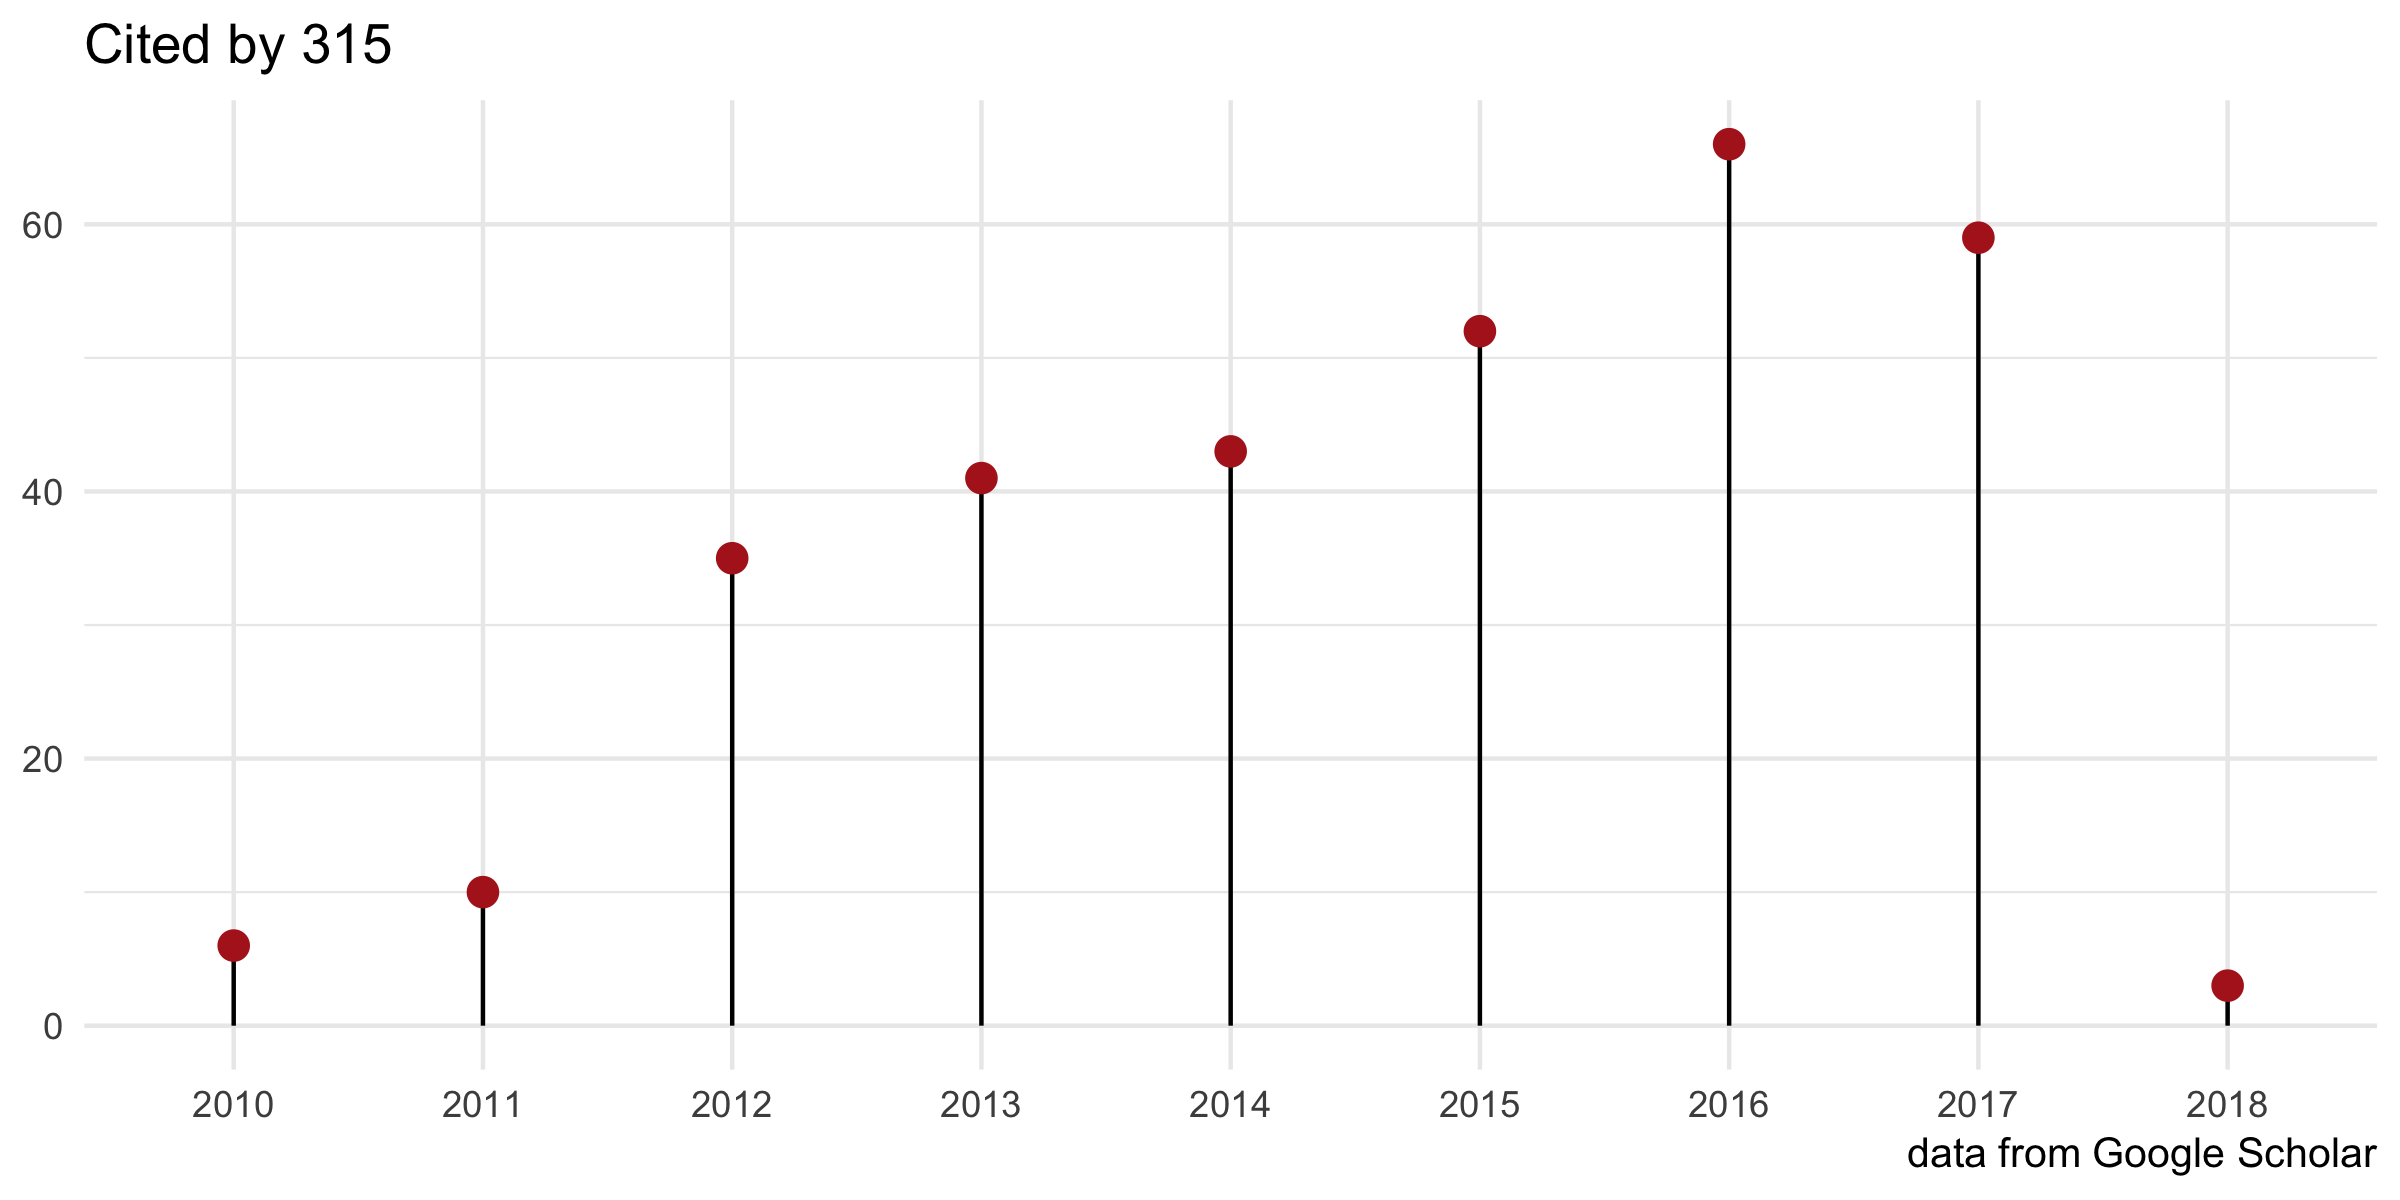
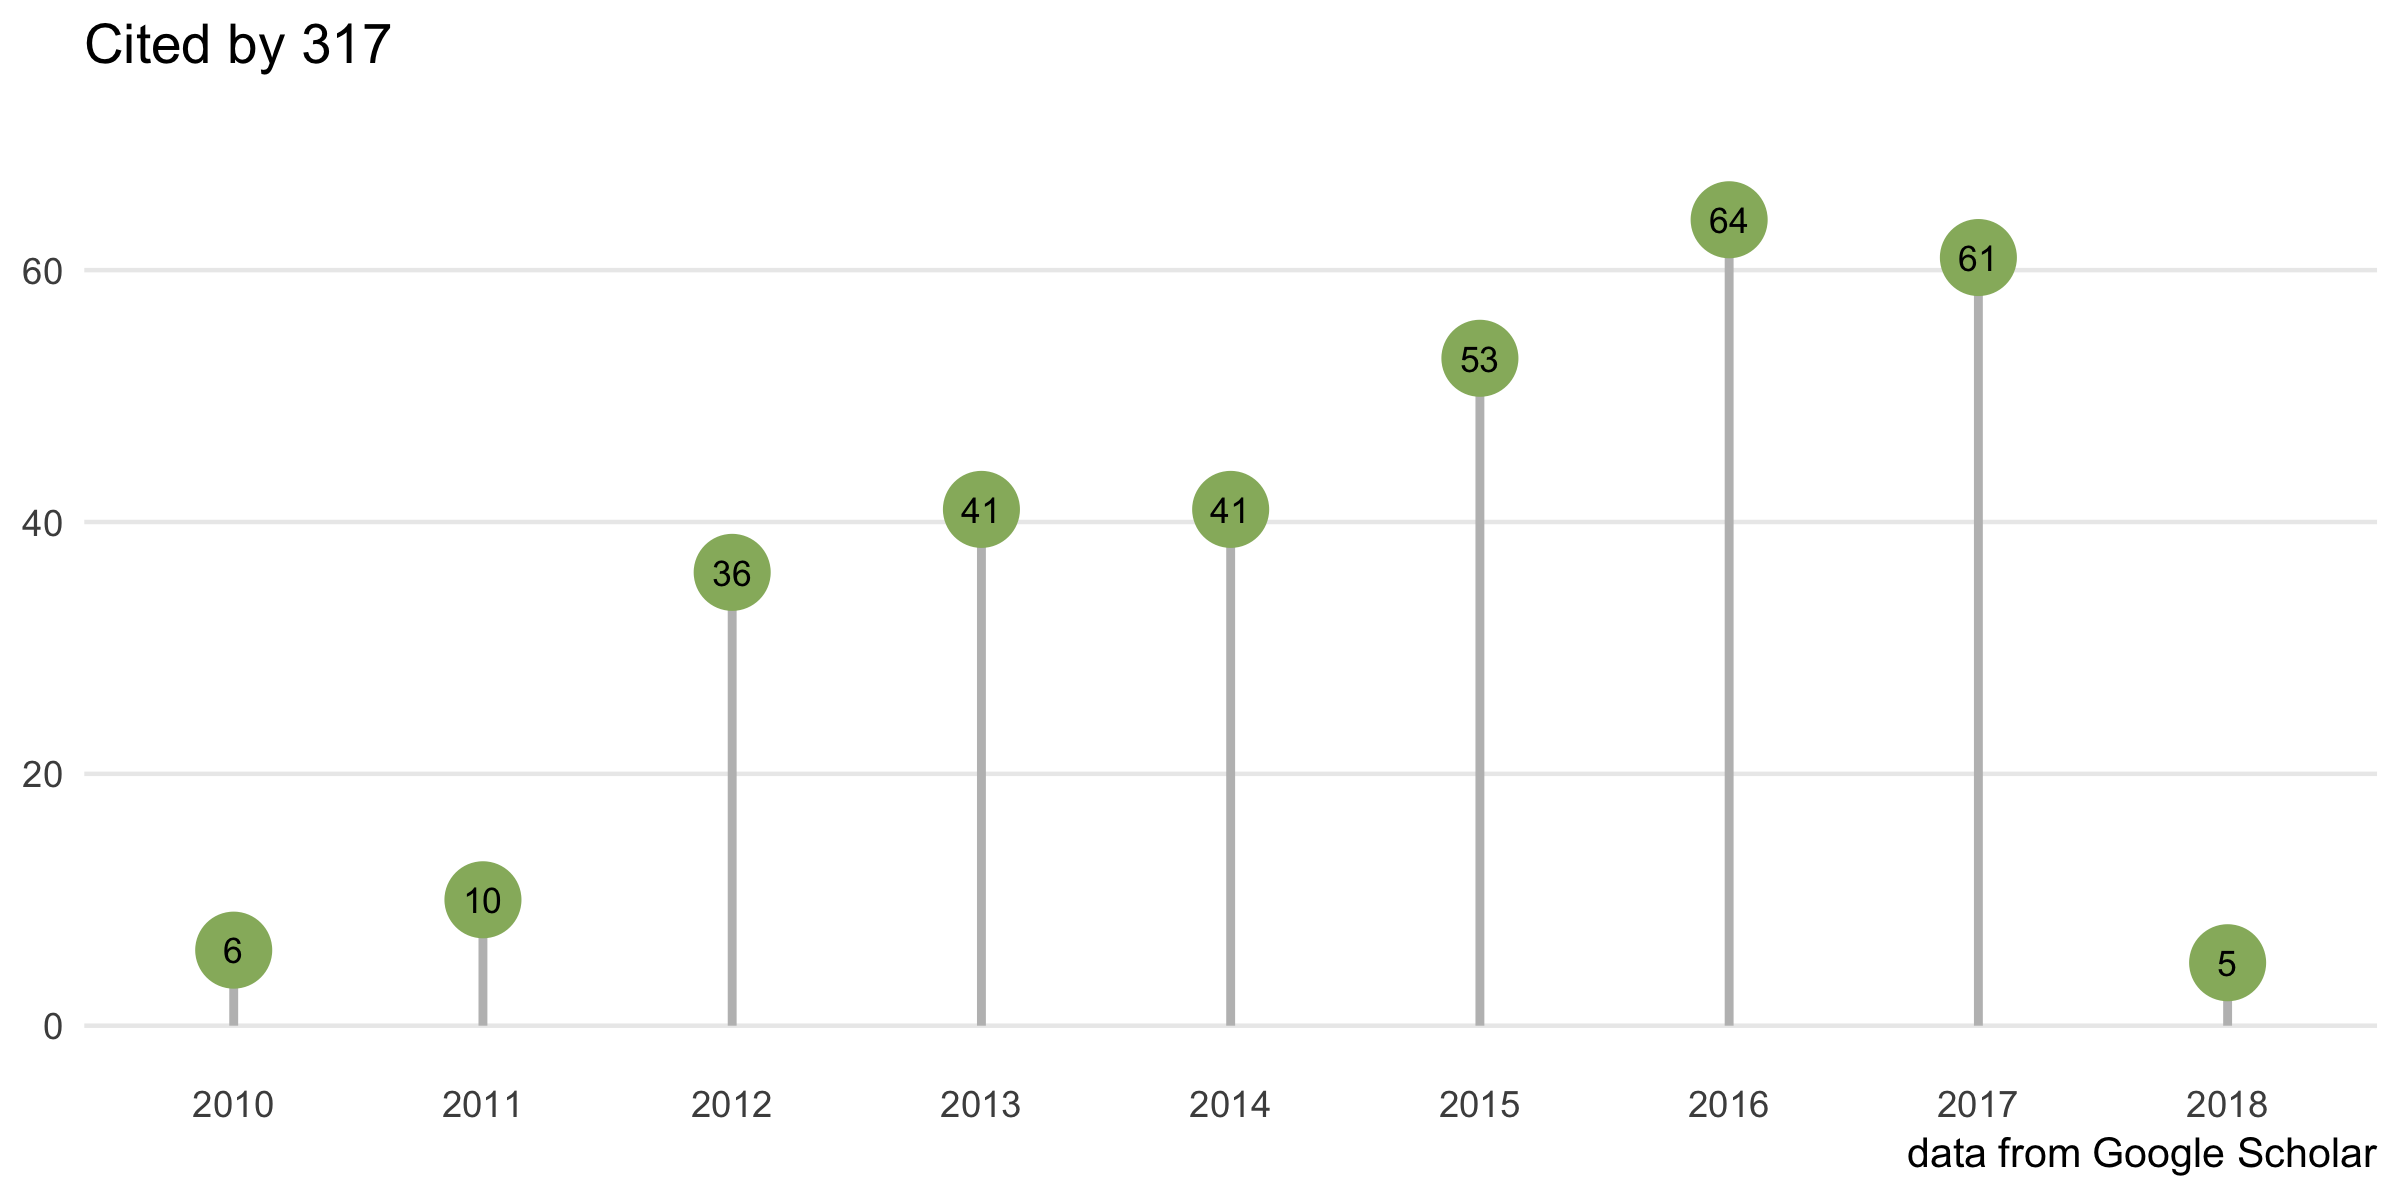
update docs

diff --git a/docs/index.html b/docs/index.html
@@ -287,7 +287,7 @@
 				<h1>GOSemSim: GO semantic similarity measurement </h1>
 
 				<p><link rel="stylesheet" href="https://guangchuangyu.github.io/css/font-awesome.min.css"> <link rel="stylesheet" href="https://guangchuangyu.github.io/css/academicons.min.css"></p>
-<p><a href="https://bioconductor.org/packages/GOSemSim"><img src="https://img.shields.io/badge/release%20version-2.4.0-blue.svg?style=flat" alt="releaseVersion" /></a> <a href="https://github.com/guangchuangyu/GOSemSim"><img src="https://img.shields.io/badge/devel%20version-2.5.0-blue.svg?style=flat" alt="develVersion" /></a> <a href="https://bioconductor.org/packages/stats/bioc/GOSemSim"><img src="https://img.shields.io/badge/downloads-65569/total-blue.svg?style=flat" alt="total" /></a> <a href="https://bioconductor.org/packages/stats/bioc/GOSemSim"><img src="https://img.shields.io/badge/downloads-2010/month-blue.svg?style=flat" alt="month" /></a></p>
+<p><a href="https://bioconductor.org/packages/GOSemSim"><img src="https://img.shields.io/badge/release%20version-2.4.0-blue.svg?style=flat" alt="releaseVersion" /></a> <a href="https://github.com/guangchuangyu/GOSemSim"><img src="https://img.shields.io/badge/devel%20version-2.5.0-blue.svg?style=flat" alt="develVersion" /></a> <a href="https://bioconductor.org/packages/stats/bioc/GOSemSim"><img src="https://img.shields.io/badge/downloads-66910/total-blue.svg?style=flat" alt="total" /></a> <a href="https://bioconductor.org/packages/stats/bioc/GOSemSim"><img src="https://img.shields.io/badge/downloads-2010/month-blue.svg?style=flat" alt="month" /></a></p>
 <p>The semantic comparisons of Gene Ontology (GO) annotations provide quantitative ways to compute similarities between genes and gene groups, and have became important basis for many bioinformatics analysis approaches. <code>GOSemSim</code> is an R package for semantic similarity computation among GO terms, sets of GO terms, gene products and gene clusters. <code>GOSemSim</code> implemented five methods proposed by <em>Resnik</em>, <em>Schlicker</em>, <em>Jiang</em>, <em>Lin</em> and <em>Wang</em> respectively.</p>
 <p><code>GOSemSim</code> is released within the <a href="https://bioconductor.org/packages/GOSemSim">Bioconductor</a> project and the source code is hosted on <a href="https://github.com/GuangchuangYu/GOSemSim"><i class="fa fa-github fa-lg"></i> GitHub</a>.</p>
 <div id="author" class="section level2">
@@ -298,7 +298,7 @@
 <div id="citation" class="section level2">
 <h2><i class="fa fa-book"></i> Citation</h2>
 <p>Please cite the following article when using <code>GOSemSim</code>:</p>
-<p><a href="http://dx.doi.org/10.1093/bioinformatics/btq064"><img src="https://img.shields.io/badge/doi-10.1093/bioinformatics/btq064-blue.svg?style=flat" alt="doi" /></a> <a href="https://www.altmetric.com/details/100979"><img src="https://img.shields.io/badge/Altmetric-18-blue.svg?style=flat" alt="Altmetric" /></a> <a href="https://scholar.google.com.hk/scholar?oi=bibs&amp;hl=en&amp;cites=9484177541993722322"><img src="https://img.shields.io/badge/cited%20by-315-blue.svg?style=flat" alt="citation" /></a></p>
+<p><a href="http://dx.doi.org/10.1093/bioinformatics/btq064"><img src="https://img.shields.io/badge/doi-10.1093/bioinformatics/btq064-blue.svg?style=flat" alt="doi" /></a> <a href="https://www.altmetric.com/details/100979"><img src="https://img.shields.io/badge/Altmetric-18-blue.svg?style=flat" alt="Altmetric" /></a> <a href="https://scholar.google.com.hk/scholar?oi=bibs&amp;hl=en&amp;cites=9484177541993722322"><img src="https://img.shields.io/badge/cited%20by-317-blue.svg?style=flat" alt="citation" /></a></p>
 <p><strong>Yu G</strong><sup>†</sup>, Li F<sup>†</sup>, Qin Y, Bo X<sup>*</sup>, Wu Y and Wang S<sup>*</sup>. GOSemSim: an R package for measuring semantic similarity among GO terms and gene products. <strong><em>Bioinformatics</em></strong>. 2010, 26(7):976-978.</p>
 </div>
 <div id="featured-articles" class="section level2">

diff --git a/site_src/content/index.html b/site_src/content/index.html
@@ -8,7 +8,7 @@ weight: 1
 
 
 <p><link rel="stylesheet" href="https://guangchuangyu.github.io/css/font-awesome.min.css"> <link rel="stylesheet" href="https://guangchuangyu.github.io/css/academicons.min.css"></p>
-<p><a href="https://bioconductor.org/packages/GOSemSim"><img src="https://img.shields.io/badge/release%20version-2.4.0-blue.svg?style=flat" alt="releaseVersion" /></a> <a href="https://github.com/guangchuangyu/GOSemSim"><img src="https://img.shields.io/badge/devel%20version-2.5.0-blue.svg?style=flat" alt="develVersion" /></a> <a href="https://bioconductor.org/packages/stats/bioc/GOSemSim"><img src="https://img.shields.io/badge/downloads-65569/total-blue.svg?style=flat" alt="total" /></a> <a href="https://bioconductor.org/packages/stats/bioc/GOSemSim"><img src="https://img.shields.io/badge/downloads-2010/month-blue.svg?style=flat" alt="month" /></a></p>
+<p><a href="https://bioconductor.org/packages/GOSemSim"><img src="https://img.shields.io/badge/release%20version-2.4.0-blue.svg?style=flat" alt="releaseVersion" /></a> <a href="https://github.com/guangchuangyu/GOSemSim"><img src="https://img.shields.io/badge/devel%20version-2.5.0-blue.svg?style=flat" alt="develVersion" /></a> <a href="https://bioconductor.org/packages/stats/bioc/GOSemSim"><img src="https://img.shields.io/badge/downloads-66910/total-blue.svg?style=flat" alt="total" /></a> <a href="https://bioconductor.org/packages/stats/bioc/GOSemSim"><img src="https://img.shields.io/badge/downloads-2010/month-blue.svg?style=flat" alt="month" /></a></p>
 <p>The semantic comparisons of Gene Ontology (GO) annotations provide quantitative ways to compute similarities between genes and gene groups, and have became important basis for many bioinformatics analysis approaches. <code>GOSemSim</code> is an R package for semantic similarity computation among GO terms, sets of GO terms, gene products and gene clusters. <code>GOSemSim</code> implemented five methods proposed by <em>Resnik</em>, <em>Schlicker</em>, <em>Jiang</em>, <em>Lin</em> and <em>Wang</em> respectively.</p>
 <p><code>GOSemSim</code> is released within the <a href="https://bioconductor.org/packages/GOSemSim">Bioconductor</a> project and the source code is hosted on <a href="https://github.com/GuangchuangYu/GOSemSim"><i class="fa fa-github fa-lg"></i> GitHub</a>.</p>
 <div id="author" class="section level2">
@@ -19,7 +19,7 @@ weight: 1
 <div id="citation" class="section level2">
 <h2><i class="fa fa-book"></i> Citation</h2>
 <p>Please cite the following article when using <code>GOSemSim</code>:</p>
-<p><a href="http://dx.doi.org/10.1093/bioinformatics/btq064"><img src="https://img.shields.io/badge/doi-10.1093/bioinformatics/btq064-blue.svg?style=flat" alt="doi" /></a> <a href="https://www.altmetric.com/details/100979"><img src="https://img.shields.io/badge/Altmetric-18-blue.svg?style=flat" alt="Altmetric" /></a> <a href="https://scholar.google.com.hk/scholar?oi=bibs&amp;hl=en&amp;cites=9484177541993722322"><img src="https://img.shields.io/badge/cited%20by-315-blue.svg?style=flat" alt="citation" /></a></p>
+<p><a href="http://dx.doi.org/10.1093/bioinformatics/btq064"><img src="https://img.shields.io/badge/doi-10.1093/bioinformatics/btq064-blue.svg?style=flat" alt="doi" /></a> <a href="https://www.altmetric.com/details/100979"><img src="https://img.shields.io/badge/Altmetric-18-blue.svg?style=flat" alt="Altmetric" /></a> <a href="https://scholar.google.com.hk/scholar?oi=bibs&amp;hl=en&amp;cites=9484177541993722322"><img src="https://img.shields.io/badge/cited%20by-317-blue.svg?style=flat" alt="citation" /></a></p>
 <p><strong>Yu G</strong><sup>†</sup>, Li F<sup>†</sup>, Qin Y, Bo X<sup>*</sup>, Wu Y and Wang S<sup>*</sup>. GOSemSim: an R package for measuring semantic similarity among GO terms and gene products. <strong><em>Bioinformatics</em></strong>. 2010, 26(7):976-978.</p>
 </div>
 <div id="featured-articles" class="section level2">

diff --git a/README.md b/README.md
@@ -1,9 +1,9 @@
 GOSemSim: GO semantic similarity measurement
 ============================================
 
-[![releaseVersion](https://img.shields.io/badge/release%20version-2.4.0-green.svg?style=flat)](https://bioconductor.org/packages/GOSemSim) [![develVersion](https://img.shields.io/badge/devel%20version-2.5.0-green.svg?style=flat)](https://github.com/guangchuangyu/GOSemSim) [![Bioc](http://www.bioconductor.org/shields/years-in-bioc/GOSemSim.svg)](https://www.bioconductor.org/packages/devel/bioc/html/GOSemSim.html#since) [![total](https://img.shields.io/badge/downloads-65569/total-blue.svg?style=flat)](https://bioconductor.org/packages/stats/bioc/GOSemSim) [![month](https://img.shields.io/badge/downloads-2010/month-blue.svg?style=flat)](https://bioconductor.org/packages/stats/bioc/GOSemSim)
+[![releaseVersion](https://img.shields.io/badge/release%20version-2.4.0-green.svg?style=flat)](https://bioconductor.org/packages/GOSemSim) [![develVersion](https://img.shields.io/badge/devel%20version-2.5.0-green.svg?style=flat)](https://github.com/guangchuangyu/GOSemSim) [![Bioc](http://www.bioconductor.org/shields/years-in-bioc/GOSemSim.svg)](https://www.bioconductor.org/packages/devel/bioc/html/GOSemSim.html#since) [![total](https://img.shields.io/badge/downloads-66910/total-blue.svg?style=flat)](https://bioconductor.org/packages/stats/bioc/GOSemSim) [![month](https://img.shields.io/badge/downloads-2010/month-blue.svg?style=flat)](https://bioconductor.org/packages/stats/bioc/GOSemSim)
 
-[![Project Status: Active - The project has reached a stable, usable state and is being actively developed.](http://www.repostatus.org/badges/latest/active.svg)](http://www.repostatus.org/#active) [![codecov](https://codecov.io/gh/GuangchuangYu/GOSemSim/branch/master/graph/badge.svg)](https://codecov.io/gh/GuangchuangYu/GOSemSim/) [![Last-changedate](https://img.shields.io/badge/last%20change-2018--01--15-green.svg)](https://github.com/GuangchuangYu/GOSemSim/commits/master) [![commit](http://www.bioconductor.org/shields/commits/bioc/GOSemSim.svg)](https://www.bioconductor.org/packages/devel/bioc/html/GOSemSim.html#svn_source) [![GitHub forks](https://img.shields.io/github/forks/GuangchuangYu/GOSemSim.svg)](https://github.com/GuangchuangYu/GOSemSim/network) [![GitHub stars](https://img.shields.io/github/stars/GuangchuangYu/GOSemSim.svg)](https://github.com/GuangchuangYu/GOSemSim/stargazers)
+[![Project Status: Active - The project has reached a stable, usable state and is being actively developed.](http://www.repostatus.org/badges/latest/active.svg)](http://www.repostatus.org/#active) [![codecov](https://codecov.io/gh/GuangchuangYu/GOSemSim/branch/master/graph/badge.svg)](https://codecov.io/gh/GuangchuangYu/GOSemSim/) [![Last-changedate](https://img.shields.io/badge/last%20change-2018--01--31-green.svg)](https://github.com/GuangchuangYu/GOSemSim/commits/master) [![commit](http://www.bioconductor.org/shields/commits/bioc/GOSemSim.svg)](https://www.bioconductor.org/packages/devel/bioc/html/GOSemSim.html#svn_source) [![GitHub forks](https://img.shields.io/github/forks/GuangchuangYu/GOSemSim.svg)](https://github.com/GuangchuangYu/GOSemSim/network) [![GitHub stars](https://img.shields.io/github/stars/GuangchuangYu/GOSemSim.svg)](https://github.com/GuangchuangYu/GOSemSim/stargazers)
 
 [![platform](http://www.bioconductor.org/shields/availability/devel/GOSemSim.svg)](https://www.bioconductor.org/packages/devel/bioc/html/GOSemSim.html#archives) [![Build Status](http://www.bioconductor.org/shields/build/devel/bioc/GOSemSim.svg)](https://bioconductor.org/checkResults/devel/bioc-LATEST/GOSemSim/) [![Linux/Mac Travis Build Status](https://img.shields.io/travis/GuangchuangYu/GOSemSim/master.svg?label=Mac%20OSX%20%26%20Linux)](https://travis-ci.org/GuangchuangYu/GOSemSim) [![AppVeyor Build Status](https://img.shields.io/appveyor/ci/Guangchuangyu/GOSemSim/master.svg?label=Windows)](https://ci.appveyor.com/project/GuangchuangYu/GOSemSim)
 
@@ -29,12 +29,12 @@ Please cite the following article when using `GOSemSim`:
 
 ### Citation
 
-[![citation](https://img.shields.io/badge/cited%20by-315-green.svg?style=flat)](https://scholar.google.com.hk/scholar?oi=bibs&hl=en&cites=9484177541993722322)
+[![citation](https://img.shields.io/badge/cited%20by-317-green.svg?style=flat)](https://scholar.google.com.hk/scholar?oi=bibs&hl=en&cites=9484177541993722322)
 
 <img src="docs/images/citation.png" width="890"/>
 
 ### Download stats
 
-[![download](http://www.bioconductor.org/shields/downloads/GOSemSim.svg)](https://bioconductor.org/packages/stats/bioc/GOSemSim/) [![total](https://img.shields.io/badge/downloads-65569/total-blue.svg?style=flat)](https://bioconductor.org/packages/stats/bioc/GOSemSim) [![month](https://img.shields.io/badge/downloads-2010/month-blue.svg?style=flat)](https://bioconductor.org/packages/stats/bioc/GOSemSim)
+[![download](http://www.bioconductor.org/shields/downloads/GOSemSim.svg)](https://bioconductor.org/packages/stats/bioc/GOSemSim/) [![total](https://img.shields.io/badge/downloads-66910/total-blue.svg?style=flat)](https://bioconductor.org/packages/stats/bioc/GOSemSim) [![month](https://img.shields.io/badge/downloads-2010/month-blue.svg?style=flat)](https://bioconductor.org/packages/stats/bioc/GOSemSim)
 
 <img src="docs/images/dlstats.png" width="890"/>
